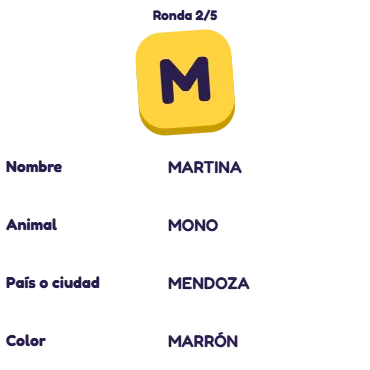
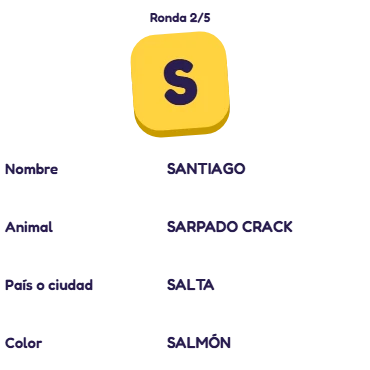
"Así se juega" plegable, votos del Espía por fila, cambiar el nombre en la partida
- "Así se juega" abierto solo la primera vez; después se abre tocándolo
- Espía: una fila por votado con quiénes lo votaron
- Botón ✏ en tu chip para cambiar el nombre; si entrás como "Jugador" te lo pide
- Ya no se guarda "Jugador" como nombre
- Nueva captura del Tutti Frutti con la S

diff --git a/shared/salas.js b/shared/salas.js
@@ -119,6 +119,13 @@ export function rapidito(id, reglasLargas = []) {
   const pasos = datosJuego(id).resumen || reglasLargas.slice(0, 3);
   return `<ol class="rapidito">${pasos.map(p => `<li>${esc(p)}</li>`).join('')}</ol>`;
 }
+// "Así se juega" plegable: abierto solo la primera vez que ves el juego en este dispositivo; después, cerrado
+// (se abre tocándolo). Al armarlo ya cuenta como visto.
+export function comoSeJuega(id, reglasLargas, {titulo = '⚡ Así se juega', clase = ''} = {}) {
+  const clave = 'como-visto-' + id, abierto = !leer(clave);
+  guardar(clave, '1');
+  return `<details class="como-plegable ${clase}"${abierto ? ' open' : ''}><summary>${titulo}</summary>${rapidito(id, reglasLargas)}</details>`;
+}
 
 // ---------- Reloj por turno (juegos con info.reloj) ----------
 export const RELOJES = [0, 30, 60, 120];
@@ -243,10 +250,7 @@ export function montar({ reglas, juego }) {
       <div class="row"><input id="nombreInv" placeholder="Tu nombre" maxlength="14" autocomplete="off">
         <button class="main" id="bEntrarInv">¡Entrar!</button></div>
     </section>
-    <section class="tarjeta como">
-      <h2>⚡ Así se juega</h2>
-      ${rapidito(info.id, info.reglas)}
-    </section>
+    ${comoSeJuega(info.id, info.reglas, {clase: 'tarjeta como'})}
     <section class="tarjeta armar">
       <h2>🎮 Armá la partida</h2>
       ${selectorJugadores(info, 'cantN')}
@@ -271,7 +275,7 @@ export function montar({ reglas, juego }) {
       <div class="row centro"><button class="main" id="bCompartir">Compartir link</button><button id="bCopiar">Copiar código</button></div>
       <p class="note" id="espTxt"></p>
       <button class="chico" id="bCambiarEspera">🎮 Cambiar el juego o cuántos juegan</button>
-      <div class="espera-reglas"><b>Mientras tanto, así se juega:</b>${rapidito(info.id, info.reglas)}</div>
+      <details class="como-plegable espera-reglas"><summary>Mientras tanto, así se juega</summary>${rapidito(info.id, info.reglas)}</details>
     </section>
     <section class="tarjeta equipos-caja" id="equipos" hidden></section>
     <div id="roomBar" hidden>Sala <b id="salaCod"></b><button class="chico" id="bInvitar">Invitar</button><button class="chico" id="bOtroJuego">🎮 Otro juego o cantidad</button></div>
@@ -314,6 +318,15 @@ export function montar({ reglas, juego }) {
         </div>
         <button id="bCambiarNo">Cancelar</button>
       </div>
+    </div>
+    <div id="renombrar" class="capa" hidden>
+      <form class="fin-caja" id="fRenombrar">
+        <div class="fin-emoji">✏</div>
+        <h2>¿Cómo te llamás?</h2>
+        <p>Así te ven los demás en la sala.</p>
+        <div class="row centro"><input id="nombreNuevo" placeholder="Tu nombre" maxlength="14" autocomplete="off" aria-label="Tu nombre"></div>
+        <div class="row centro"><button class="main grande" id="bRenombrarSi">Listo</button><button type="button" id="bRenombrarNo">Cancelar</button></div>
+      </form>
     </div>
     <div id="echar" class="capa" hidden>
       <div class="fin-caja">
@@ -595,6 +608,7 @@ export function montar({ reglas, juego }) {
       const s = st.online ? asientoDe(i) : null, vacio = st.online && !s;
       return `<div class="chip${i === e.turno && e.ganador === EN_JUEGO ? ' turn' : ''}${vacio ? ' vacio' : ''}" style="--c:${COLORES[i]}">${dot(i)}` +
              `${vacio ? 'Libre' : esc(nombre(i))}${st.online && i === st.asiento ? ' (vos)' : ''}${s && s.id === dueno ? ' 👑' : ''}` +
+             `${s && i === st.asiento ? '<button class="renombrar" data-renombrar title="Cambiar tu nombre" aria-label="Cambiar tu nombre">✏</button>' : ''}` +
              `${extra ? `<span class="w">${esc(extra)}</span>` : ''}` +
              `${mando && s && i !== st.asiento ? `<button class="echar" data-echar="${i}" title="Sacar de la sala" aria-label="Sacar a ${esc(s.name)} de la sala">✕</button>` : ''}</div>`;
     }).join('');
@@ -651,6 +665,8 @@ export function montar({ reglas, juego }) {
       for (let i = 0; i < v.n; i++) if (v.seats && v.seats[i] && v.seats[i].id === miId) st.asiento = i;
       st.estado = reglas.normalizar(v.game);
       efectos(antes, st.estado, salaAntes);
+      // Entraste sin nombre ("Jugador"): te lo pedimos ahí mismo (si no estás viendo las reglas)
+      if (!salaAntes && asientoDe(st.asiento)?.name === 'Jugador' && $('ayuda').hidden) setTimeout(abrirRenombrar, 300);
       chat?.actualizar(v.chat, miId);
       if (v.siguiente && !st.mudando) {        // alguien eligió otro juego: nos mudamos todos
         st.mudando = true;
@@ -665,10 +681,11 @@ export function montar({ reglas, juego }) {
     try { history.replaceState(null, '', '?sala=' + cod); } catch {}
     render();
   }
+  // Sin nombre entrás como "Jugador", pero eso no se guarda: así no queda pegado para las próximas salas
   function miNombre() {
-    const n = $('nombre').value.trim() || 'Jugador';
-    guardarNombre(n);
-    return n;
+    const n = $('nombre').value.trim();
+    if (n) guardarNombre(n);
+    return n || 'Jugador';
   }
 
   async function unirme(cod, name) {
@@ -733,7 +750,7 @@ export function montar({ reglas, juego }) {
   $('bSalir').onclick = () => { sonar('tap'); salir(); };
   function salir() {
     if (st.cortar) { st.cortar(); st.cortar = null; }
-    ['cambiar', 'echar', 'mudanza'].forEach(id => { $(id).hidden = true; });
+    ['cambiar', 'echar', 'mudanza', 'renombrar'].forEach(id => { $(id).hidden = true; });
     cerrarCambiar();
     Object.assign(st, {pantalla: 'menu', online: false, estado: null, sala: null, cod: '', asiento: -1});
     juego.reiniciar?.();
@@ -920,6 +937,34 @@ export function montar({ reglas, juego }) {
     if (b && !b.disabled) { sonar('tap'); elegirJuego(b.dataset.id).catch(e => aviso('No se pudo abrir: ' + e.message)); }
   });
   $('bCambiarSi').onclick = () => { if (cambiarA) { sonar('tap'); mudar(); } };
+
+  // ---------- Cambiar tu nombre en plena partida (tocando ✏ en tu chip) ----------
+  function abrirRenombrar() {
+    const s = st.online && asientoDe(st.asiento);
+    if (!s) return;
+    $('nombreNuevo').value = s.name === 'Jugador' ? '' : s.name || '';
+    $('renombrar').hidden = false;
+    $('nombreNuevo').focus();
+  }
+  $('players').addEventListener('click', ev => {
+    if (!ev.target.closest('[data-renombrar]')) return;
+    sonar('tap'); abrirRenombrar();
+  });
+  $('bRenombrarNo').onclick = () => { sonar('tap'); $('renombrar').hidden = true; };
+  $('fRenombrar').onsubmit = async ev => {
+    ev.preventDefault();
+    const n = $('nombreNuevo').value.trim();
+    if (!n) { aviso('Poné tu nombre'); animar($('nombreNuevo'), 'sacudir'); return; }
+    const s = asientoDe(st.asiento);
+    if (!st.online || !s || s.id !== miId) { $('renombrar').hidden = true; return; }
+    $('bRenombrarSi').disabled = true;
+    try {
+      await fb.set(fb.ref(fb.db, `${ruta()}/seats/${st.asiento}/name`), n);
+      guardarNombre(n); $('nombre').value = n;
+      sonar('tap'); $('renombrar').hidden = true;
+    } catch (e) { aviso(e.message); }
+    $('bRenombrarSi').disabled = false;
+  };
 
   // ---------- Sacar a alguien de la sala (solo quien la creó) ----------
   let aEchar = null;   // {i, id, name}

diff --git a/shared/estilo.css b/shared/estilo.css
@@ -155,6 +155,9 @@ details ul{line-height:1.6;padding-left:20px;margin:12px 0 0;color:var(--mute)}
 .chip .echar{min-height:26px;min-width:26px;width:26px;height:26px;padding:0;margin:0 -8px 0 2px;border-radius:50%;font-size:13px;
   background:rgba(255,255,255,.12);box-shadow:none;color:var(--mute)}
 .chip .echar:hover{background:var(--bad);color:#fff}
+.chip .renombrar{min-height:26px;min-width:26px;width:26px;height:26px;padding:0;margin:0 -8px 0 2px;border-radius:50%;font-size:13px;
+  background:rgba(255,255,255,.12);box-shadow:none}
+.chip .renombrar:hover{background:rgba(255,255,255,.25)}
 /* Reloj por turno (juegos con info.reloj) */
 #reloj{display:flex;align-items:center;justify-content:center;gap:8px;width:max-content;margin:6px auto 0;padding:4px 16px;border-radius:999px;
   background:rgba(10,5,40,.35);font-weight:700;font-size:19px;font-variant-numeric:tabular-nums}
@@ -226,9 +229,11 @@ details ul{line-height:1.6;padding-left:20px;margin:12px 0 0;color:var(--mute)}
 .rapidito li{counter-increment:paso;display:flex;align-items:flex-start;gap:12px;font-size:17px;line-height:1.35}
 .rapidito li::before{content:counter(paso);flex:none;display:grid;place-items:center;width:30px;height:30px;border-radius:50%;
   background:var(--amarillo);color:var(--oscuro);font-weight:700;font-size:16px;box-shadow:0 3px 0 #c99a00;margin-top:-3px}
-.tarjeta.como h2{margin-bottom:14px}
-.espera-reglas{text-align:left;background:rgba(255,255,255,.55);border-radius:18px;padding:14px 16px;margin-top:6px}
-.espera-reglas b{display:block;margin-bottom:10px}
+/* "Así se juega" plegable: abierto la primera vez, después cerrado */
+.como-plegable > summary{font-size:21px}
+.como-plegable[open] > summary{margin-bottom:14px}
+.espera-reglas{text-align:left;background:rgba(255,255,255,.55);border-radius:18px;padding:12px 16px;margin-top:6px}
+.espera-reglas > summary{font-size:16px}
 .espera-reglas .rapidito li::before,.fin-caja .rapidito li::before{background:var(--oscuro);color:var(--amarillo);box-shadow:none}
 
 #toast{position:fixed;left:50%;bottom:calc(24px + env(safe-area-inset-bottom,0px));transform:translate(-50%,30px) scale(.9);

diff --git a/espia/juego.js b/espia/juego.js
@@ -71,6 +71,17 @@ const quien = (ctx, i) => `<span class="dot" style="background:${ctx.color(i)}">
 // Una pista: escrita, en voz alta o sin pista (se le acabó el tiempo)
 const textoPista = (e, x) => (x.nada ? '<i>⏱ sin pista</i>' : e.opciones.voz ? '<i>🗣 la dijo</i>' : `“${esc(x.t)}”`);
 
+// Cómo votó cada uno: una fila por cada votado (el más votado arriba) con quiénes lo votaron
+function tablaVotos(ctx, votos) {
+  const por = new Map();
+  votos.forEach((v, i) => { if (v >= 0) por.set(v, [...(por.get(v) || []), i]); });
+  if (!por.size) return '';
+  const filas = [...por].sort((a, b) => b[1].length - a[1].length).map(([v, qs]) =>
+    `<li>${quien(ctx, v)} <span class="es-cuenta">${qs.length} ${qs.length === 1 ? 'voto' : 'votos'}</span>
+      <span class="es-quienes">← ${qs.map(i => esc(ctx.nombre(i))).join(', ')}</span></li>`);
+  return `<ul class="es-tabla-votos">${filas.join('')}</ul>`;
+}
+
 export function dibujar(c) {
   ctx = c;
   const e = ctx.estado, yo = ctx.miAsiento;
@@ -143,8 +154,8 @@ export function dibujar(c) {
   for (let r = e.ronda; r >= 1; r--) {
     const pr = pistasRonda(e, r), res = e.res.find(x => x.r === r);
     if (!pr.length && !res) continue;
-    const votos = res ? `<p class="es-res">🗳 ${res.out < 0 ? 'Empate: no salió nadie' : `Salió ${quien(ctx, res.out)}: era ${NOMBRE_ROL[e.roles[res.out]]}`}
-      <span class="note">${res.votos.map((v, i) => (v >= 0 ? `${esc(ctx.nombre(i))} → ${esc(ctx.nombre(v))}` : '')).filter(Boolean).join(' · ')}</span></p>` : '';
+    const votos = res ? `<p class="es-res">🗳 ${res.out < 0 ? 'Empate: no salió nadie' : `Salió ${quien(ctx, res.out)}: era ${NOMBRE_ROL[e.roles[res.out]]}`}</p>
+      ${tablaVotos(ctx, res.votos)}` : '';
     rondas.push(`<section><h3>Ronda ${r}</h3><ul>${pr.map(x => `<li style="--c:${ctx.color(x.p)}">${quien(ctx, x.p)} ${textoPista(e, x)}</li>`).join('')}</ul>${votos}</section>`);
   }
   const intentos = e.intentos.map(x => `<p class="es-res">🕵 ${quien(ctx, x.p)} arriesgó ${x.t ? `“${esc(x.t)}”` : 'nada'} ${acierta(x.t, e.pal[0]) ? '✅' : '❌'}</p>`).join('');

diff --git a/index.html b/index.html
@@ -85,7 +85,8 @@ dialog[open] .hoja{animation:entra .35s cubic-bezier(.3,1.5,.5,1)}
   padding:8px 8px 10px;border-radius:20px;font-size:17px;animation:entra .35s backwards;animation-delay:calc(var(--i)*40ms)}
 .elegir .muestra{border-radius:14px}
 .hoja .como{background:rgba(255,255,255,.06);border:2px solid var(--line);border-radius:20px;padding:14px 16px;margin-bottom:14px}
-.hoja .como b{display:block;margin-bottom:10px;font-size:17px}
+.hoja .como-plegable > summary{font-size:17px}
+.hoja .como-plegable[open] > summary{margin-bottom:10px}
 .elegido{display:flex;align-items:center;gap:14px;margin-bottom:14px}
 .elegido .ico{width:64px;height:64px;border-radius:18px;animation:none}
 .elegido b{font-size:22px;display:block}
@@ -152,7 +153,7 @@ dialog[open] .hoja{animation:entra .35s cubic-bezier(.3,1.5,.5,1)}
 <script type="module">
 import { JUEGOS } from './shared/juegos.js';
 import { buscarSala, crearSala, aviso, esc, iconoJuego, nombreGuardado, guardarNombre,
-         selectorJugadores, jugadoresElegidos, rapidito, botonesJugar, ordenarJuegos, jugadas, limpiarSalas,
+         selectorJugadores, jugadoresElegidos, comoSeJuega, botonesJugar, ordenarJuegos, jugadas, limpiarSalas,
          selectorReloj, relojElegido, conReloj } from './shared/salas.js';
 import { sonar, botonesSonido, animar } from './shared/efectos.js';
 
@@ -263,7 +264,7 @@ $('paso1').addEventListener('click', async ev => {
   $('elegido').innerHTML = `${ico(j.id, j.color)}<div><b>${esc(info.nombre)}</b><span class="note">${esc(j.jugadores)} jugadores</span></div>
     <button class="chico" id="bOtro">Cambiar</button>`;
   $('bOtro').onclick = () => mostrarPaso(1);
-  $('comoP').innerHTML = `<b>⚡ Así se juega</b>${rapidito(j.id, info.reglas)}`;
+  $('comoP').innerHTML = comoSeJuega(j.id, info.reglas);
   $('cantP').innerHTML = selectorJugadores(info, 'cantP');
   $('relojP').innerHTML = selectorReloj(info, 'relojP');
   $('extraP').innerHTML = '';

diff --git a/sw.js b/sw.js
@@ -2,7 +2,7 @@
 //  - Páginas y código: primero la red (así siempre llega la versión nueva); sin conexión, lo guardado.
 //  - Imágenes, fuentes y el SDK de Firebase: primero lo guardado (no cambian).
 //  - La base de datos de Firebase no pasa por acá (para jugar online hace falta internet).
-const CACHE = 'a-juegar-v2';
+const CACHE = 'a-juegar-v5';
 const BASICOS = ['./', 'index.html', 'shared/estilo.css', 'shared/salas.js', 'shared/efectos.js', 'shared/chat.js',
                  'shared/juegos.js', 'shared/iconos.js', 'shared/firebase.js', 'icono.svg', 'manifest.webmanifest'];
 

diff --git a/espia/index.html b/espia/index.html
@@ -47,6 +47,9 @@
 .es-rondas .dot{width:12px;height:12px}
 .es-res{margin:8px 0 0;display:flex;align-items:center;gap:6px;flex-wrap:wrap}
 .es-res .note{flex-basis:100%;margin:2px 0 0;font-size:13px}
+.es-rondas ul.es-tabla-votos{margin-top:6px;padding:8px 10px;background:rgba(10,5,40,.3);border-radius:12px;gap:6px;font-size:14px}
+.es-cuenta{font-size:12px;font-weight:700;padding:1px 8px;border-radius:99px;background:rgba(255,255,255,.12)}
+.es-quienes{flex-basis:100%;padding-left:20px;color:var(--mute)}
 </style>
 </head>
 <body>
